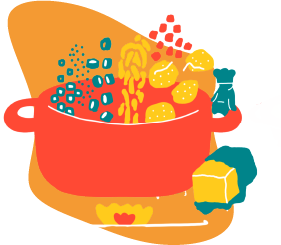
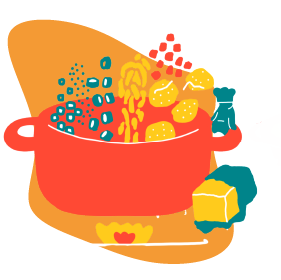
update paprica

diff --git a/projects/paprica.html b/projects/paprica.html
@@ -38,7 +38,7 @@
 
             <!-- Cover image -->
             <div class="header-cover">
-                <img src="img/paprica/paprica-boxpic-3.jpg" width="100%" alt="Detail from the map in the game board">
+                <img src="img/paprica/paprica-boxpic.jpg" width="100%" alt="Detail from the map in the game board">
             </div>            
         </header>
 
@@ -47,55 +47,62 @@
             <section class="project-bio">
                 <img src="img/paprica/paprica-logo.svg" width="377" alt="Páprica logo next to the Mini Chef character">
 
-                <p><b>Páprica</b> tem uma escolha de ingredientes simples com receitas bem explicadas, tudo enviado em uma caixa onde os ingredientes chegam frescos, separados e medidos.</p>
+                <p><b>Páprica</b> is a box filled with fresh ingredients delivered with in-depth recipes that are well written and easy to follow, allowing people from all levels of experience to start exploring the kitchen.</p>
             </section>
 
             <!--Video-->
             <div style="padding:56.25% 0 0 0;position:relative;"><iframe src="https://player.vimeo.com/video/396142118?color=E73E38&title=0&byline=0&portrait=0" style="position:absolute;top:0;left:0;width:100%;height:100%;" frameborder="0" allow="autoplay; fullscreen; picture-in-picture" allowfullscreen></iframe></div><script src="https://player.vimeo.com/api/player.js"></script>
 
-            <!--How it works-->
-            <ul class="how-works">
-                <li>
-                    <img src="img/paprica/paprica-how-works-01.png" height="230" alt="Mini Chef picking a potato with a fork">
-                    <h4>Choice</h4>
-                    <p>Single purchase or in a subscription plan, you pick whatever fits the best your needs.</p>
-                </li>
-
-                <li>
-                    <img src="img/paprica/paprica-how-works-02.png" height="230" alt="Mini Chef picking a potato with a fork">
-                    <h4>Delivery</h4>
-                    <p>Every two weeks we deliver to you a box with fresh products, measured for a two-person meal.</p>
-                </li>
-
-                <li>
-                    <img src="img/paprica/paprica-how-works-03.png" height="230" alt="Mini Chef picking a potato with a fork">
-                    <h4>Cooking</h4>
-                    <p>Are you in a hurry? In the mood for a challenge? There are many recipe options, you can pick the best for you.</p>
-                </li>
-
-                <li>
-                    <img src="img/paprica/paprica-how-works-04.png" height="230" alt="Mini Chef picking a potato with a fork">
-                    <h4>Flavor</h4>
-                    <p>Now it's time to taste! Recipes are easy to cook and use ingredients that you can buy anywhere.</p>
-                </li>
-            </ul>
-
-            <img src="img/paprica/paprica-recipes.jpg" width="100%">
-            <p class="subtitle">Receitas enviadas nas caixas junto dos ingredientes, além do guia com o passo a passo em vídeo.</p>
-
-            <section class="grid-cover">
+            <section class="grid-cover video-line">
                 <video controls src="img/paprica/paprica-video-fridge.mp4" poster="img/paprica/paprica-video-fridge-cover.jpg" width="100%" autoplay loop muted>
                     Sorry, your browser doesn't support embedded videos.
                 </video>
                 <video controls src="img/paprica/paprica-video-noodle.mp4" poster="img/paprica/paprica-video-noodle-cover.jpg" width="100%" autoplay loop muted>
                     Sorry, your browser doesn't support embedded videos.
                 </video>
+            </section>
+
+            <!--How it works-->
+            <section class="how-works">
+                <h4>It's all done in 4 simple steps:</h4>
+                <ul>
+                    <li>
+                        <img src="img/paprica/paprica-how-works-01.png" height="230" alt="Mini Chef picking a potato with a fork">
+                        <h4>Choose</h4>
+                        <p>Single purchase or in a subscription plan, you pick whatever fits the best your needs.</p>
+                    </li>
+
+                    <li>
+                        <img src="img/paprica/paprica-how-works-02.png" height="230" alt="Mini Chef picking a potato with a fork">
+                        <h4>Delivery</h4>
+                        <p>Every two weeks we deliver to you a box with fresh products, measured for a two-person meal.</p>
+                    </li>
+
+                    <li>
+                        <img src="img/paprica/paprica-how-works-03.png" height="230" alt="Mini Chef picking a potato with a fork">
+                        <h4>Cooking</h4>
+                        <p>Are you in a hurry? In the mood for a challenge? There are many recipe options, you can pick the best for you.</p>
+                    </li>
+
+                    <li>
+                        <img src="img/paprica/paprica-how-works-04.png" height="230" alt="Mini Chef picking a potato with a fork">
+                        <h4>Flavor</h4>
+                        <p>Now it's time to taste! Recipes are easy to cook and use ingredients that you can buy anywhere.</p>
+                    </li>
+                </ul>
+            </section>
+
+            <section class="grid-cover grid-pics">
                 <img src="img/paprica/paprica-grid-1.jpg" alt="" width="100%">
                 <img src="img/paprica/paprica-grid-2.jpg" alt="" width="100%">
-                <img src="img/paprica/paprica-grid-3.jpg" alt="" width="100%%">
+                <img src="img/paprica/paprica-grid-3.jpg" alt="" width="100%">
                 <img src="img/paprica/paprica-grid-4.jpg" alt="" width="100%">
-
             </section>
+
+            <img src="img/paprica/paprica-recipes.jpg" width="100%">
+            <p class="subtitle">Recipes delivered together with the ingredients, plus the step-by-step video guide.</p>
+
+            <img class="chef-colors" src="img/paprica/paprica-chef-colors.svg" width="40%">
             
             <!-- Exhibitions -->
             <section class="credits exhibitions">

diff --git a/projects/css/paprica.css b/projects/css/paprica.css
@@ -1,16 +1,17 @@
-/* Color variables */
-:root {
-    --paprica-red: #E73E38;
+.video-line{
+    margin-top: 4rem;
 }
 
 /* How it works */
 .how-works{
+    margin-top: 7rem;
+    margin-bottom: 5rem;
+}
+
+.how-works ul{
     display: flex;
     justify-content: space-between;
     align-items: baseline;
-
-    margin-top: 6rem;
-    margin-bottom: 2rem;
 }
 
 .how-works li{
@@ -34,14 +35,29 @@
 .how-works h4{
     font-family: 'Montserrat', sans-serif;
     color: black;
+    text-align: center;
     font-weight: 700;
     font-size: 1.5rem;
     margin-bottom: 0.8rem;
 }
 
+.how-works > h4{
+    margin-bottom: 2rem;
+}
+
+.grid-pics{
+    margin-bottom: 6rem;
+}
+
+.chef-colors{
+    display: block;
+    width: 40%;
+    margin: 6rem auto;
+}
+
 /* Mobile */
 @media screen and (max-width: 760px){
-    .how-works{
+    .how-works ul{
         flex-direction: column;
     }
 
@@ -49,7 +65,18 @@
         width: 100%;
     }
 
+    .how-works img{
+        width: 60%;
+        margin: auto;
+        margin-bottom: 1.5rem;
+    }
+
     .how-works p{
         margin-bottom: 4rem;
+    }
+
+    .chef-colors{
+        width: 80%;
+        margin: 4rem auto;
     }
 }

diff --git a/projects/css/basic-project.css b/projects/css/basic-project.css
@@ -129,6 +129,9 @@ main p{
     }
     
     .credits img{
+        display: block;
+        width: 80%;
+        margin: auto;
         margin-bottom: 2rem;
     }
 }
